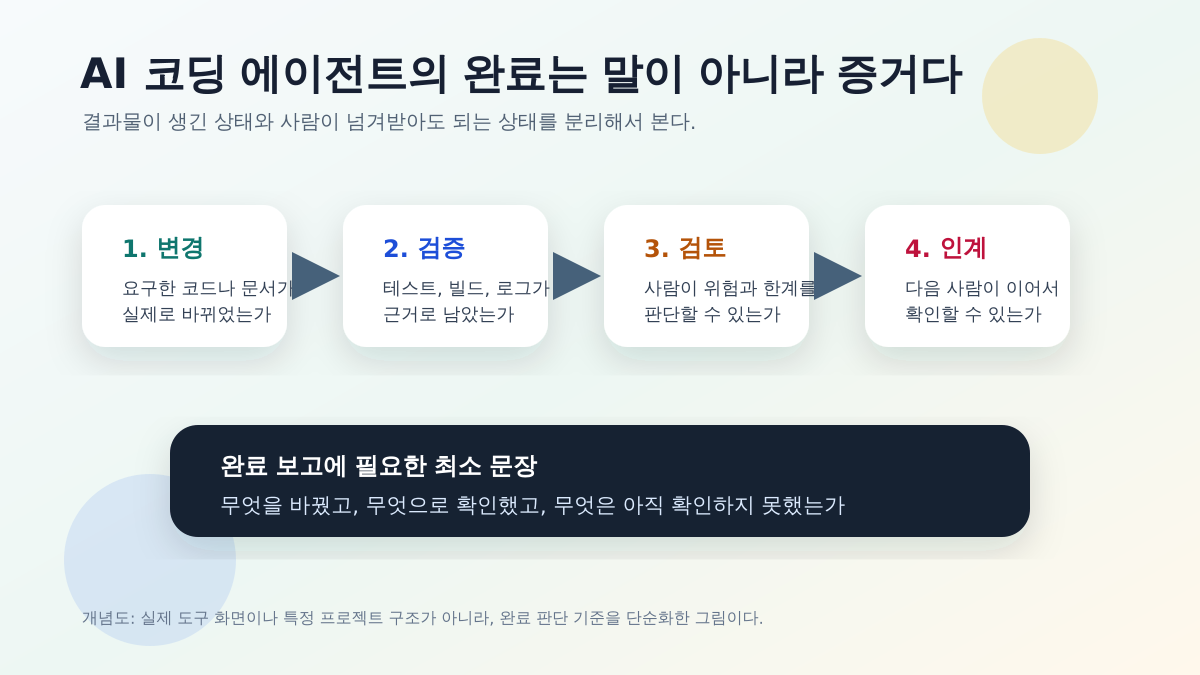
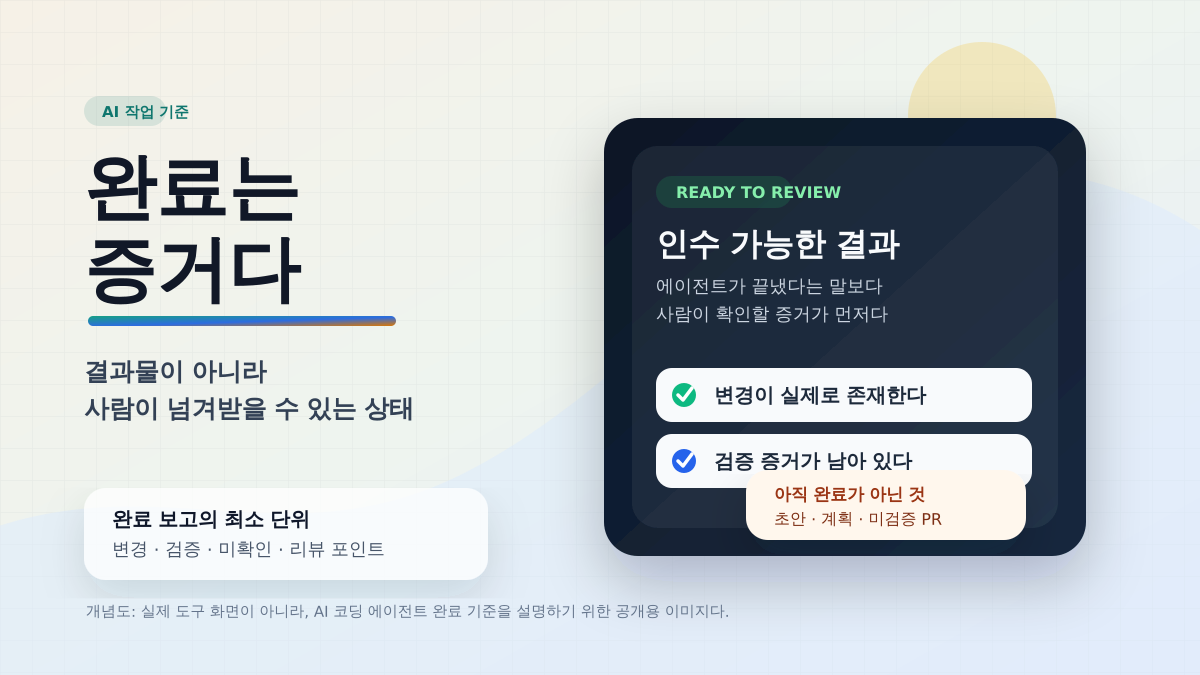
Enforce evidence screenshots for blog sources

diff --git a/AGENTS.md b/AGENTS.md
@@ -63,6 +63,7 @@ Before every commit or push:
 - Search source files for company names, product names, customer names, personal information, credentials, tokens, private repository names, internal issue IDs, server details, and local paths.
 - Inspect screenshots, images, attachments, and other non-text assets before adding them.
 - Build the site and scan the generated output before publishing.
+- Run `npm run validate:evidence`; external source quotes must have an adjacent official-docs screenshot figure unless a specific `evidence-screenshot-exception` comment explains why screenshotting is impractical or unsuitable.
 - Check that the post follows the writing rules: human voice, clear evidence boundary, no unnecessary incorrect statement, and no unsupported strong claims.
 - Stop immediately if any content could identify a company, organization, person, product, customer, repository, internal system, or private work context.
 